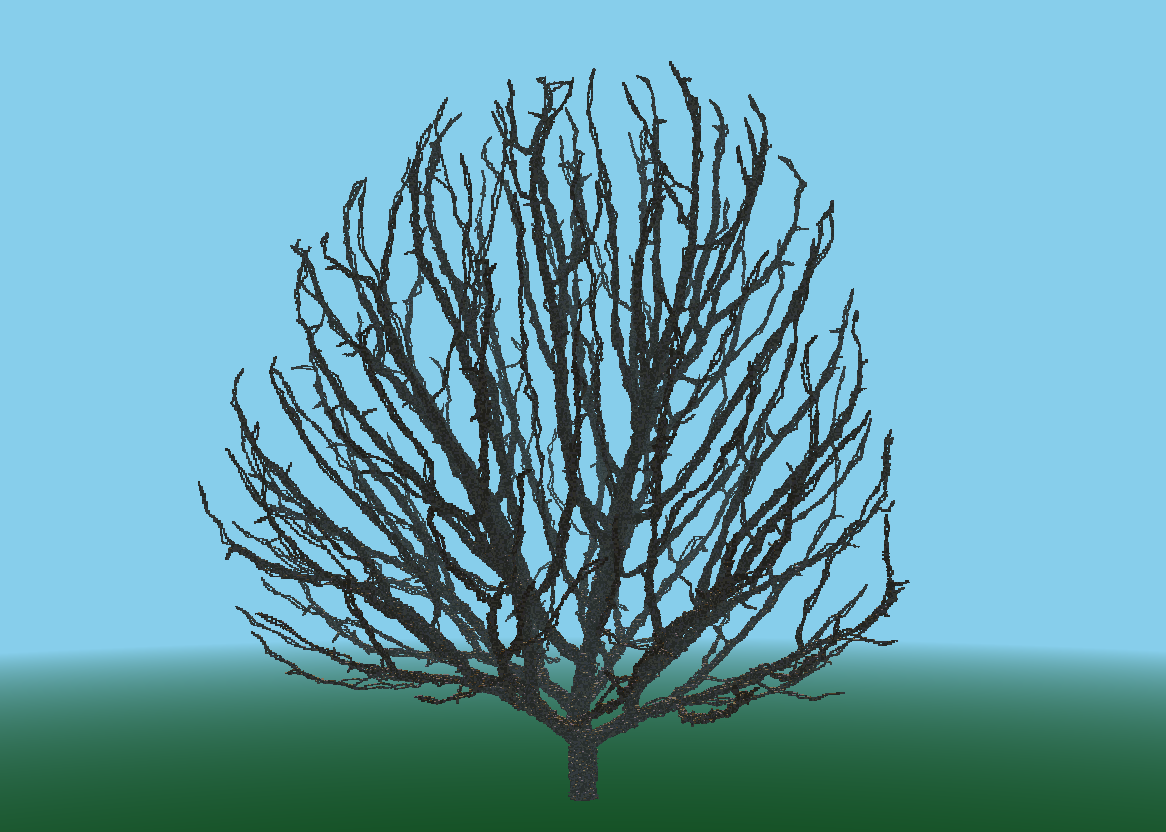
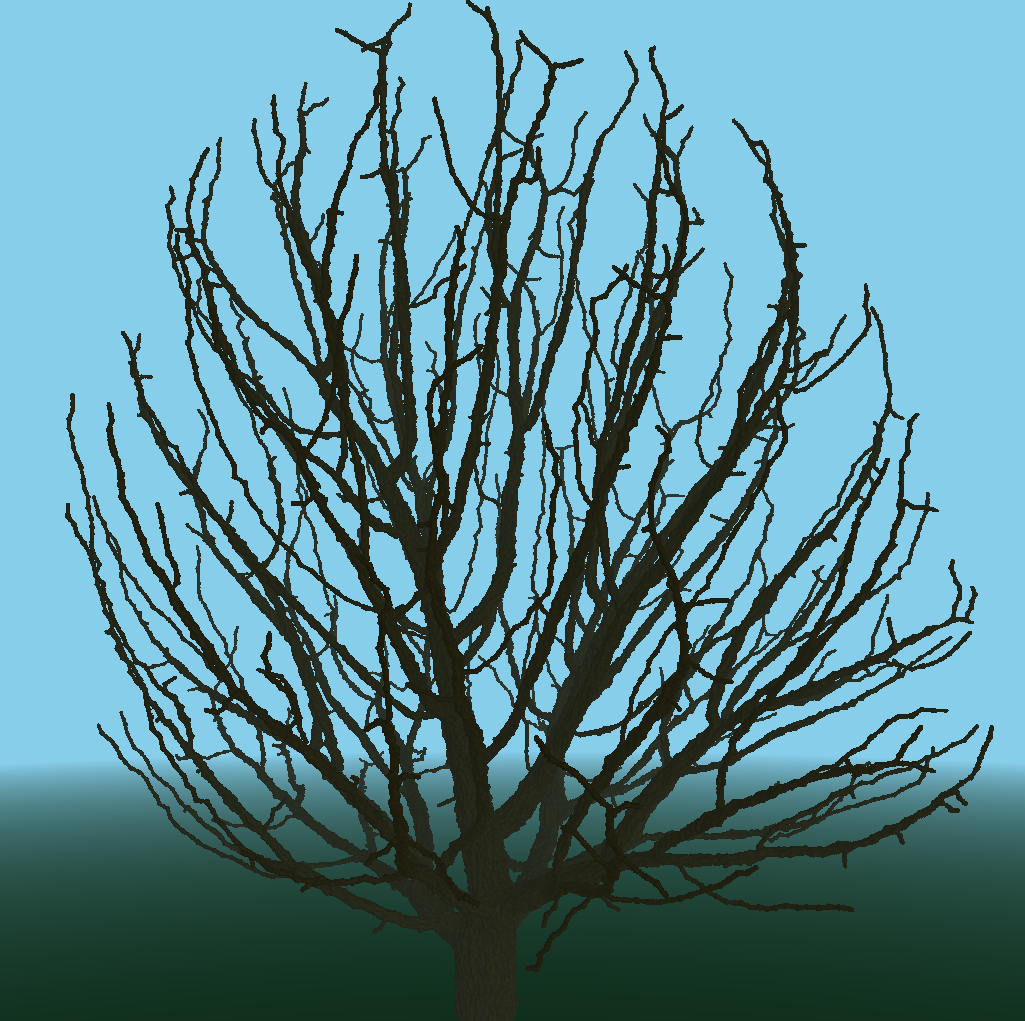
Improved lighting

diff --git a/src/tree/grid.cpp b/src/tree/grid.cpp
@@ -10,7 +10,7 @@
 // Commonly used names
 using glm::ivec3;
 using glm::vec3;
-using std::array;
+//using std::array;
 using std::tuple;
 using std::vector;
 
@@ -53,8 +53,7 @@ bool Grid::is_in_grid(ivec3 grid_cell) const {
 
 float Grid::get_in_grid(ivec3 index) const {
   if (!is_in_grid(index)) {
-    // std::cout<<"outside of grid "<<index<<std::endl;
-    return 0;
+    return 0.f;
   }
   return grid[index.x][index.y][index.z];
 }
@@ -170,6 +169,7 @@ void Grid::fill_line(glm::vec3 p1, glm::vec3 p2, Implicit &implicit) {
     last_main_axis = voxels[i][main_axis];
   }
 }
+
 void Grid::fill_path_2(std::vector<glm::vec3> path, Implicit& implicit){
   fill_line(path[0], path[1], implicit);
   for (int i = 1; i<path.size()-1;i++){
@@ -329,61 +329,22 @@ Mesh<VertFlat> Grid::get_occupied_geom_points(float threshold) const {
 Mesh<Vertex> Grid::get_occupied_geom(float threshold) const {
   std::cout << "Generating Occupied Geometry...";
   std::cout.flush();
+  glm::vec3 col(0.1, 0.08, 0.01);
   vector<Vertex> vertices;
   vector<GLuint> indices;
-
-  glm::vec3 col(0, 0, 1);
-  std::vector<std::pair<glm::vec3, glm::vec3>> cube_verts{
-      // Right
-      {glm::vec3(scale, scale, 0), glm::vec3(1, 0, 0)},
-      {glm::vec3(scale, scale, scale), glm::vec3(1, 0, 0)},
-      {glm::vec3(scale, 0, 0), glm::vec3(scale, 0, 0)},
-      {glm::vec3(scale, 0, scale), glm::vec3(1, 0, 0)},
-      // Left
-      {glm::vec3(0, scale, 0), glm::vec3(-1, 0, 0)},
-      {glm::vec3(0, scale, scale), glm::vec3(-1, 0, 0)},
-      {glm::vec3(0, 0, 0), glm::vec3(-1, 0, 0)},
-      {glm::vec3(0, 0, scale), glm::vec3(-1, 0, 0)},
-
-      // Top
-      {glm::vec3(0, scale, 0), glm::vec3(0, 1, 0)},
-      {glm::vec3(scale, scale, 0), glm::vec3(0, 1, 0)},
-      {glm::vec3(0, scale, scale), glm::vec3(0, 1, 0)},
-      {glm::vec3(scale, scale, scale), glm::vec3(0, 1, 0)},
-      // Bottom
-      {glm::vec3(0, 0, 0), glm::vec3(0, -1, 0)},
-      {glm::vec3(scale, 0, 0), glm::vec3(0, -1, 0)},
-      {glm::vec3(0, 0, scale), glm::vec3(0, -1, 0)},
-      {glm::vec3(scale, 0, scale), glm::vec3(0, -1, 0)},
-
-      // Front
-      {glm::vec3(0, scale, scale), glm::vec3(0, 0, 1)},
-      {glm::vec3(scale, scale, scale), glm::vec3(0, 0, 1)},
-      {glm::vec3(0, 0, scale), glm::vec3(0, 0, 1)},
-      {glm::vec3(scale, 0, scale), glm::vec3(0, 0, 1)},
-      // Back
-      {glm::vec3(0, scale, 0), glm::vec3(0, 0, -1)},
-      {glm::vec3(scale, scale, 0), glm::vec3(0, 0, -1)},
-      {glm::vec3(0, 0, 0), glm::vec3(0, 0, -1)},
-      {glm::vec3(scale, 0, 0), glm::vec3(0, 0, -1)},
-
+  std::vector<glm::vec3> cube_verts{
+      {0, 0, 0},         {scale, 0, 0},         {0, scale, 0},
+      {scale, scale, 0}, {0, 0, scale},         {scale, 0, scale},
+      {0, scale, scale}, {scale, scale, scale},
   };
-  std::vector<std::vector<GLuint>> cube_indices{
-      {0, 2, 3, 0, 3, 1},       // Right
-      {4, 6, 7, 4, 7, 5},       // Left
-      {8, 10, 11, 8, 11, 9},    // Top
-      {12, 14, 15, 12, 15, 13}, // Bottom
-      {16, 18, 19, 16, 19, 17}, // Front
-      {20, 22, 23, 20, 23, 21}  // Back
+  std::vector<GLuint> cube_indices{
+      1, 3, 7, 1, 7, 5, // Right
+      0, 4, 6, 0, 6, 2, // Left
+      4, 5, 7, 4, 7, 6, // Top
+      0, 1, 3, 0, 3, 2, // Bottom
+      0, 1, 5, 0, 5, 4, // Front
+      2, 6, 7, 2, 7, 3  // Back
   };
-  const array<array<unsigned int, 3>, 8> adj_norms = {{{1, 3, 5},
-                                                       {0, 3, 5},
-                                                       {1, 2, 5},
-                                                       {0, 2, 5},
-                                                       {1, 3, 4},
-                                                       {0, 3, 4},
-                                                       {1, 2, 4},
-                                                       {0, 2, 4}}};
 
   int current_index = 0;
   for (glm::ivec3 voxel : occupied) {
@@ -398,27 +359,26 @@ Mesh<Vertex> Grid::get_occupied_geom(float threshold) const {
         if (content <= threshold)
           visible = true;
       }
+      // Completely occluded do not add vertices
       if (!visible)
-        continue; // Completely occluded do not add vertices
+        continue;
+
+      glm::vec3 normal{0.5f * (get_in_grid(voxel + ivec3(1, 0, 0)) +
+                               get_in_grid(voxel + ivec3(-1, 0, 0))),
+                       0.5f * (get_in_grid(voxel + ivec3(0, 1, 0)) +
+                               get_in_grid(voxel + ivec3(0, -1, 0))),
+                       0.5f * (get_in_grid(voxel + ivec3(0, 0, 1)) +
+                               get_in_grid(voxel + ivec3(0, 0, -1)))};
 
       // Loop through and generate vertices
       vec3 current_pos = back_bottom_left + vec3(voxel) * scale;
-      int curr_vert_index = 0;
-      // glm::vec3 color = random_color();
-      // glm::vec3 color = random_brown();
       for (int i_ = 0; i_ <= cube_verts.size(); i_++) {
-        vertices.push_back(Vertex{current_pos + cube_verts[i_].first,
-                                  random_brown(), cube_verts[i_].second});
+        vertices.push_back(Vertex{current_pos + cube_verts[i_], col, normal});
       }
       // Generate Indices
-      for (int face_i = 0; face_i < cube_indices.size(); face_i++) {
-        if (adj_content[face_i] <= threshold) {
-          for (int index = 0; index < cube_indices[face_i].size(); index++) {
-            indices.push_back(cube_indices[face_i][index] + current_index);
-          }
-        }
+      for (int i_ = 0; i_ < cube_indices.size(); i_++) {
+        indices.push_back(current_index + cube_indices[i_]);
       }
-
       current_index = vertices.size();
     }
   }

diff --git a/src/const.h b/src/const.h
@@ -14,9 +14,9 @@
 */
 
 // Tree specific constants
-#define FOCUS glm::vec3(0,0.3,0)
-#define DISTANCE 2.f
-#define GRIDSCALEFACTOR 1.f
+#define FOCUS glm::vec3(0, 1.5, 0)
+#define DISTANCE 5.f
+#define GRIDSCALEFACTOR 0.5f
 // STRAND CONSTANTS
 #define SEGMENT_LENGTH .03f
 #define NUM_TRIALS 50
@@ -24,9 +24,9 @@
 #define ALPHA 0.5f
 // IMPLICIT CONSTANTS
 #define RADIUS 0.005f
-#define BLOBINESS -5.f
-#define CUTOFF_VAL 0.5f
-#define REJECT_VAL 10.f
+#define BLOBINESS -1.f
+#define CUTOFF_VAL 0.05f
+#define REJECT_VAL 2.f
 #define SURFACE_VAL 1.f
 
 /*
@@ -123,7 +123,8 @@
 // For Irregular Crown
 #define FOCUS glm::vec3(0,0.3,0)
 #define DISTANCE 2.f
-#define GRIDSCALEFACTOR 1.f
+//#define GRIDSCALEFACTOR 1.f
+#define GRIDSCALEFACTOR 0.5f
 // STRAND CONSTANTS
 #define SEGMENT_LENGTH .03f
 #define NUM_TRIALS 50

diff --git a/src/main.cpp b/src/main.cpp
@@ -109,7 +109,7 @@ int main(int argc, char *argv[]) {
     // gr.export_data("data.txt");
 
     // GROUND PLANE
-    glm::vec3 ground_color = glm::vec3(0, 0.65, 0);
+    glm::vec3 ground_color = glm::vec3(0, 1.0, 0);
     std::vector<Vertex> ground_verts{
         Vertex{glm::vec3(50, 0, 50), ground_color},
             Vertex{glm::vec3(50, 0, -50), ground_color},
